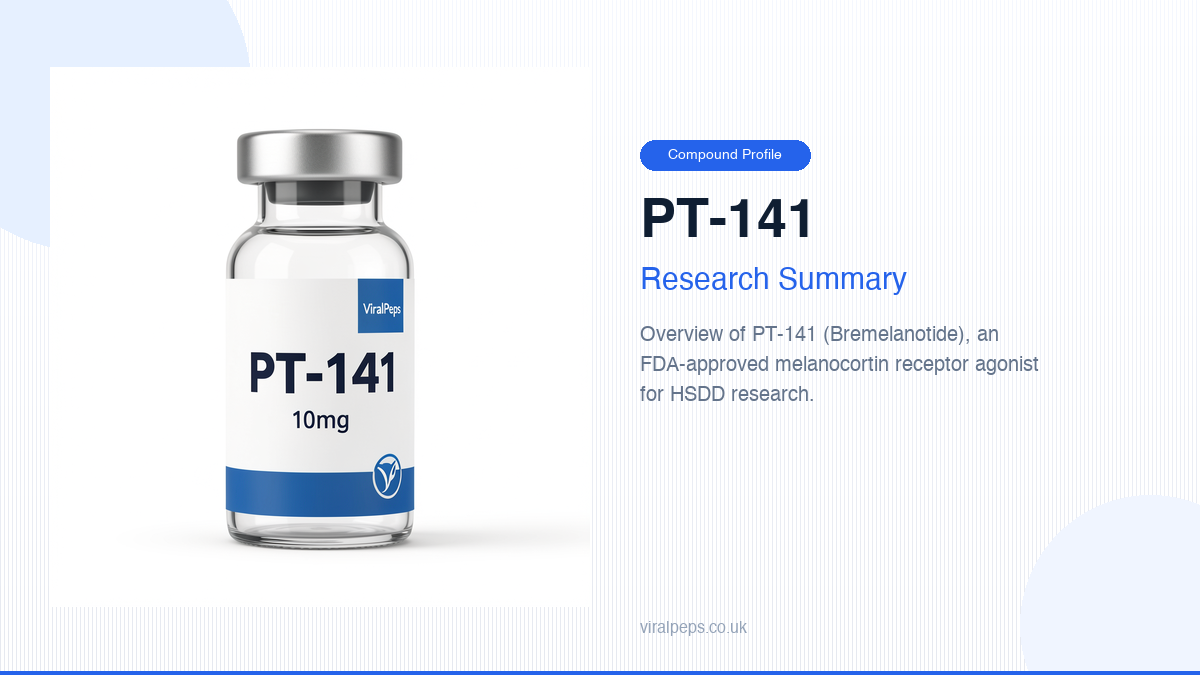
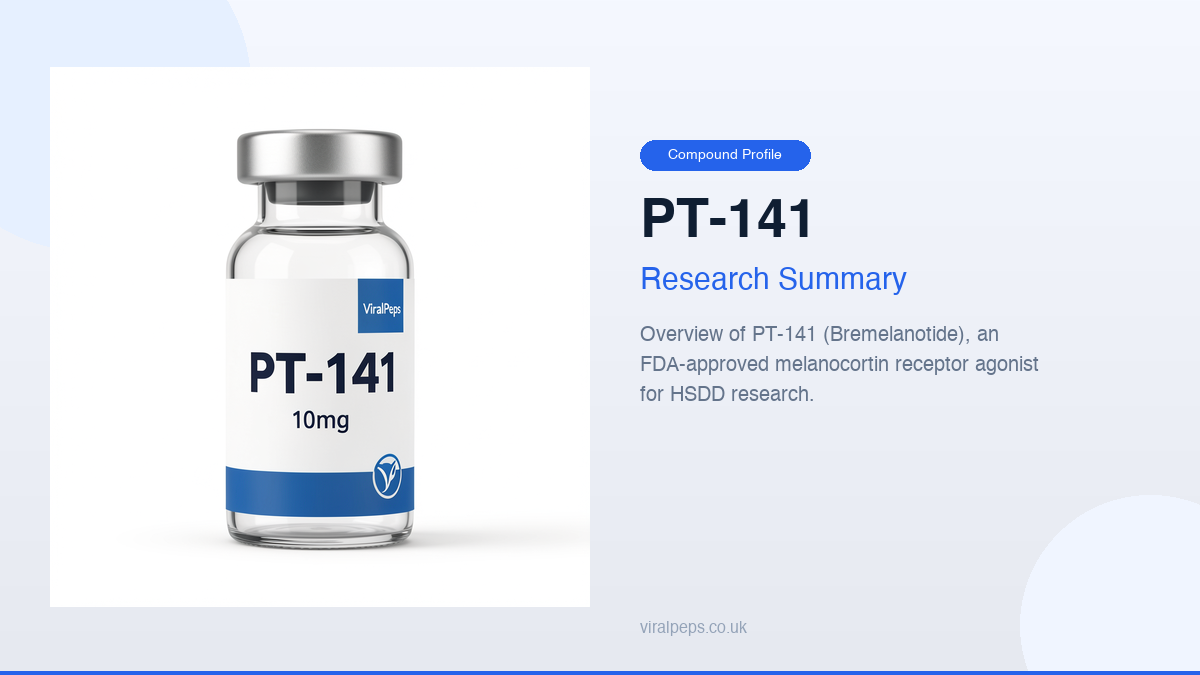
Fix PT-141 card: use solid gradient (range(card_w)) matching Sermorelin exactly

Changed region(s): [[0.0, 0.9333, 0.8633, 0.9956]]

diff --git a/scripts/create_guide_image.py b/scripts/create_guide_image.py
@@ -25,7 +25,7 @@ for y in range(card_h):
     r = int(245 - ratio * 15)
     g = int(248 - ratio * 15)
     b = int(255 - ratio * 15)
-    for x in range(0, card_w, 4):
+    for x in range(card_w):
         draw.point((x, y), fill=(r, g, b))
 
 # Decorative circles